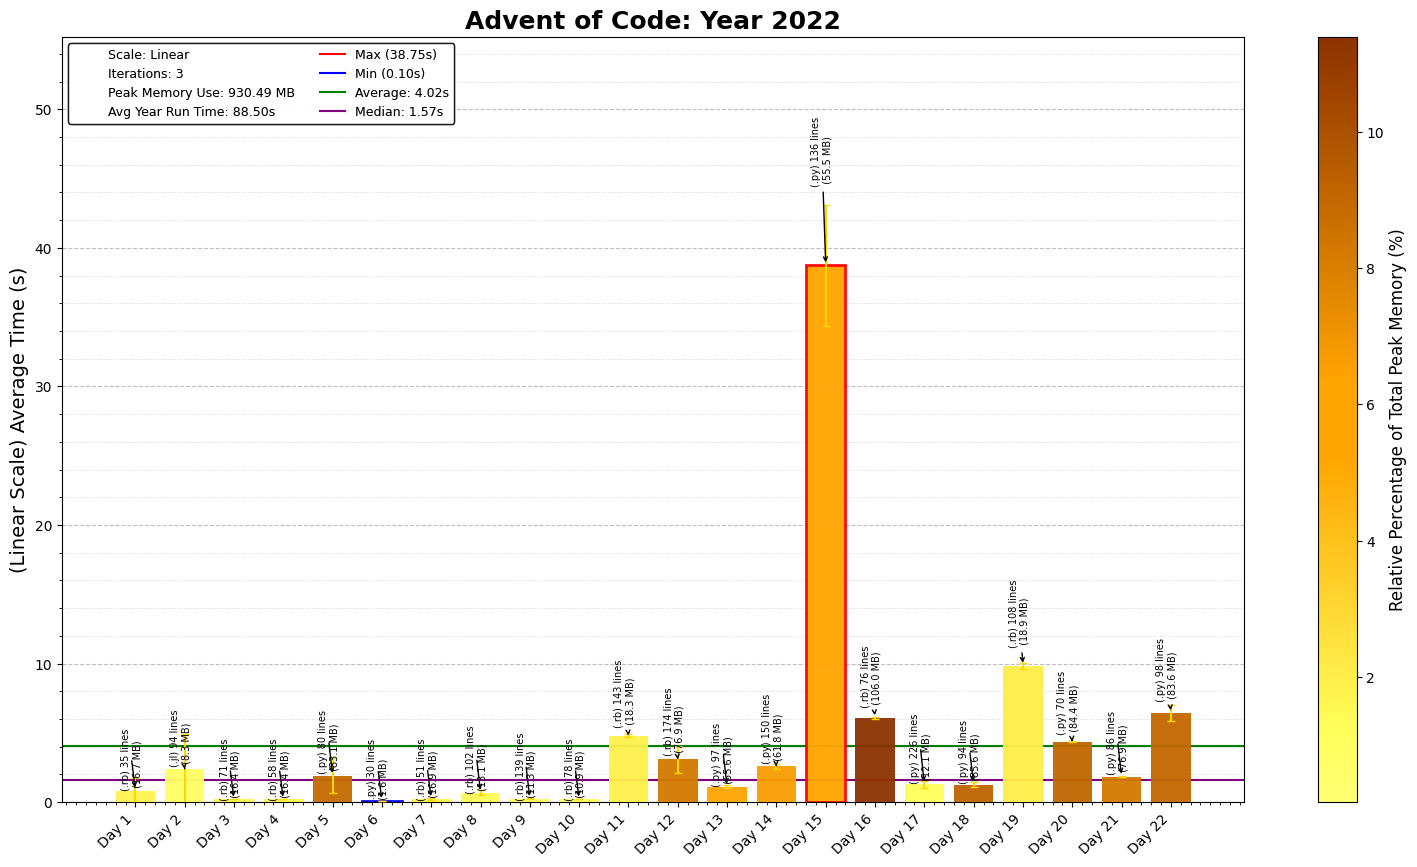
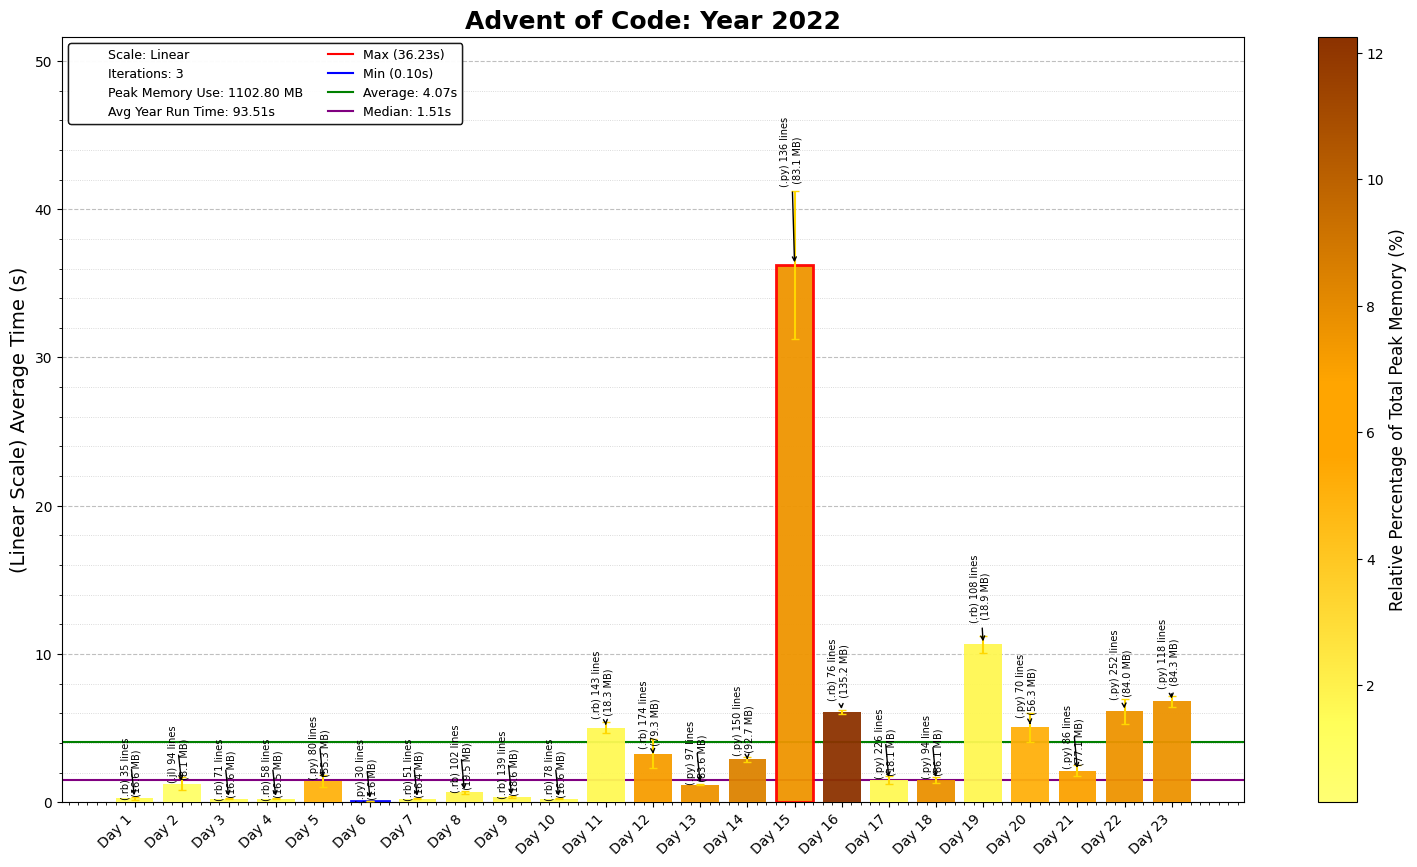
2022 Day 22 P2 & Day 23

diff --git a/2022/22/2022Day22_P2.py b/2022/22/2022Day22_P2.py
@@ -1,0 +1,159 @@
+"""Advent of Code - Day 22, Year 2022
+Solution Started: Dec 11, 2024
+Puzzle Link: https://adventofcode.com/2022/day/22
+Solution by: abbasmoosajee07
+Brief: [Moving in a 3D Cube]
+"""
+
+#!/usr/bin/env python3
+
+import os, re, copy
+import numpy as np
+import pandas as pd
+import matplotlib.pyplot as plt
+
+# Load the input data from the specified file path
+D22_file = "Day22_input.txt"
+D22_file_path = os.path.join(os.path.dirname(os.path.abspath(__file__)), D22_file)
+
+# Read and sort input data into a grid
+with open(D22_file_path) as file:
+    input_data = file.read().split('\n\n')
+    movements = re.findall(r'\d+|[RL]', input_data[1])
+#!/usr/bin/env python3
+
+import os
+import re
+import numpy as np
+
+# Load the input data from the specified file path
+D22_file = "Day22_input.txt"
+D22_file_path = os.path.join(os.path.dirname(os.path.abspath(__file__)), D22_file)
+
+# Read and sort input data into a grid and movements
+with open(D22_file_path) as file:
+    input_data = file.read().split('\n\n')
+    grid_data = input_data[0].split('\n')
+    movements = re.findall(r'\d+|[RL]', input_data[1])
+
+def build_grid(grid_lines):
+    """Build a grid from the input string, padding rows to have equal length."""
+    max_len = max(len(line) for line in grid_lines)
+    padded_lines = [line.ljust(max_len) for line in grid_lines]
+    return np.array([list(line) for line in padded_lines], dtype=str)
+
+def calculate_final_password(position):
+    """Calculate the final password based on the position."""
+    row, col, direction = position
+    direction_value = {0: 3, 1: 0, 2: 1, 3: 2}
+    return (1000 * (row + 1)) + (4 * (col + 1)) + direction_value[direction]
+
+def region_to_global(r, c, region):
+    """Convert local coordinates within a region to global grid coordinates."""
+    rr, cc = REGION[region - 1]
+    return (rr * CUBE_SIZE + r, cc * CUBE_SIZE + c)
+
+def get_region(r, c):
+    """Get the region and local coordinates for a global grid position."""
+    for i, (rr, cc) in enumerate(REGION):
+        if rr * CUBE_SIZE <= r < (rr + 1) * CUBE_SIZE and cc * CUBE_SIZE <= c < (cc + 1) * CUBE_SIZE:
+            return i + 1, r - rr * CUBE_SIZE, c - cc * CUBE_SIZE
+    raise ValueError(f"Position ({r}, {c}) does not match any region")
+
+def new_coords(r, c, d, nd):
+    """Compute new coordinates on the cube after transitioning across a face boundary."""
+    if d == 0:  # Moving up
+        assert r == 0
+        x = c
+    elif d == 1:  # Moving right
+        assert c == CUBE_SIZE - 1
+        x = r
+    elif d == 2:  # Moving down
+        assert r == CUBE_SIZE - 1
+        x = CUBE_SIZE - 1 - c
+    elif d == 3:  # Moving left
+        assert c == 0
+        x = CUBE_SIZE - 1 - r
+
+    if nd == 0:
+        return CUBE_SIZE - 1, x
+    elif nd == 1:
+        return x, 0
+    elif nd == 2:
+        return 0, CUBE_SIZE - 1 - x
+    elif nd == 3:
+        return CUBE_SIZE - 1 - x, CUBE_SIZE - 1
+
+def get_dest(r, c, d):
+    """Get the destination position and new direction after moving off the current cube face."""
+    region, rr, rc = get_region(r, c)
+
+    # Mapping of exits and entries between faces based on direction
+    new_region, new_dir = {
+        (4, 0): (3, 0), (4, 1): (2, 3), (4, 2): (6, 3), (4, 3): (5, 3),
+        (1, 0): (6, 1), (1, 1): (2, 1), (1, 2): (3, 2), (1, 3): (5, 1),
+        (3, 0): (1, 0), (3, 1): (2, 0), (3, 2): (4, 2), (3, 3): (5, 2),
+        (6, 0): (5, 0), (6, 1): (4, 0), (6, 2): (2, 2), (6, 3): (1, 2),
+        (2, 0): (6, 0), (2, 1): (4, 3), (2, 2): (3, 3), (2, 3): (1, 3),
+        (5, 0): (3, 1), (5, 1): (4, 1), (5, 2): (6, 2), (5, 3): (1, 1)
+    }[(region, d)]
+
+    # Calculate new coordinates on the new face and map to global grid
+    nr, nc = new_coords(rr, rc, d, new_dir)
+    nr, nc = region_to_global(nr, nc, new_region)
+    return nr, nc, new_dir
+
+def move_on_3d_cube():
+    """Simulate the movement of the robot and calculate the final password."""
+    # Initial robot position (top-left corner) and direction (right)
+    r, c, d = 0, 0, 1
+    while grid[r][c] != '.':
+        c += 1  # Find the first valid position in the top row
+
+    i = 0
+    while i < len(movements):
+        # Parse movement instructions
+        n = 0
+        while i < len(movements) and movements[i].isdigit():
+            n = n * 10 + int(movements[i])
+            i += 1
+
+        # Process movement
+        for _ in range(n):
+            assert grid[r][c] == '.', f"Unexpected position: ({r}, {c})"
+            rr = (r + DIRECTIONS[d][0]) % len(grid)
+            cc = (c + DIRECTIONS[d][1]) % len(grid[0])
+            if grid[rr][cc] == ' ':
+                # Transition to a new face if moving off the current face
+                nr, nc, nd = get_dest(r, c, d)
+                if grid[nr][nc] == '#':
+                    break  # Stop if hitting a wall
+                r, c, d = nr, nc, nd
+            elif grid[rr][cc] == '#':
+                break  # Stop if hitting a wall
+            else:
+                r, c = rr, cc
+
+        if i == len(movements):
+            break
+
+        # Handle turns
+        turn = movements[i]
+        if turn == 'L':
+            d = (d + 3) % 4  # Left turn (counterclockwise)
+        elif turn == 'R':
+            d = (d + 1) % 4  # Right turn (clockwise)
+        i += 1
+
+    return calculate_final_password((r,c,d))
+
+# Initial grid and movement setup
+grid = build_grid(grid_data)
+
+# Constants
+DIRECTIONS = [(-1, 0), (0, 1), (1, 0), (0, -1)]  # Up, Right, Down, Left
+CUBE_SIZE = len(grid[0]) // 3  # Assuming the grid is folded into a 3x3 cube
+REGION = [(0, 1), (0, 2), (1, 1), (2, 1), (2, 0), (3, 0)]  # Cube face regions
+
+# Output the result for part 2
+print("Part 2:", move_on_3d_cube())

diff --git a/2022/23/2022Day23.py b/2022/23/2022Day23.py
@@ -1,0 +1,117 @@
+"""Advent of Code - Day 23, Year 2022
+Solution Started: Dec 12, 2024
+Puzzle Link: https://adventofcode.com/2022/day/23
+Solution by: abbasmoosajee07
+Brief: [Code/Problem Description]
+"""
+
+#!/usr/bin/env python3
+
+import os, re, copy 
+import numpy as np
+import pandas as pd
+import matplotlib.pyplot as plt
+from collections import defaultdict, deque
+
+# Load the input data from the specified file path
+D23_file = "Day23_input.txt"
+D23_file_path = os.path.join(os.path.dirname(os.path.abspath(__file__)), D23_file)
+
+# Read and sort input data into a grid
+with open(D23_file_path) as file:
+    input_data = file.read().strip().split('\n')
+
+def starting_elf_position(init_map):
+    init_array = [list(row) for row in init_map]
+    elf_index = set()
+    for row_no, row in enumerate(init_array):
+        for col_no, char in enumerate(row):
+            if char == '#':
+                elf_index.add((row_no, col_no))
+    return elf_index
+
+def map_elves(elf_index):
+    # Determine the grid size based on the maximum row and column values
+    max_row = max(r for r, c in elf_index)
+    max_col = max(c for r, c in elf_index)
+    min_row = min(r for r, c in elf_index)
+    min_col = min(c for r, c in elf_index)
+
+    # Initialize an empty grid with '.' for unoccupied positions
+    grid = [['.' for _ in range(min_col, max_col+1)] for _ in range(min_row, max_row +1)]
+
+    # Mark the positions in the grid with '#'
+    for r, c in elf_index:
+        grid[r-min_row][c-min_col] = '#'
+
+    # Display the grid
+    # for row in grid:
+    #     print(''.join(row))
+    return grid
+
+def move_elves(elf_index):
+    # Define movement directions and offsets
+    DIRECTION_OFFSETS = {
+        'N': (-1, 0), 'S': (1, 0), 'W': (0, -1), 'E': (0, 1)
+    }
+    DIAGONAL_OFFSETS = {
+        'N': [(-1, -1), (-1, 1)], 'S': [(1, -1), (1, 1)],
+        'W': [(-1, -1), (1, -1)], 'E': [(-1, 1), (1, 1)]
+    }
+    DIRECTIONS = ['N', 'S', 'W', 'E']
+
+    for t in range(10000):
+        any_moved = False
+        # Dictionary to track desired positions and the elves that want to move there
+        proposed_moves = defaultdict(list)
+
+        # Determine proposed moves for each elf
+        for (r, c) in elf_index:
+            # Check if the elf has any neighbors
+            has_neighbors = any(
+                (r + dr, c + dc) in elf_index
+                for dr in [-1, 0, 1] for dc in [-1, 0, 1] if (dr, dc) != (0, 0)
+            )
+
+            if not has_neighbors:
+                continue  # Skip if no neighbors
+
+            # Propose a move based on the current directions
+            for dir_ in DIRECTIONS:
+                move_offset = DIRECTION_OFFSETS[dir_]
+                diagonal_offsets = DIAGONAL_OFFSETS[dir_]
+                new_pos = (r + move_offset[0], c + move_offset[1])
+
+                if (
+                    new_pos not in elf_index and
+                    all((r + dr, c + dc) not in elf_index for dr, dc in diagonal_offsets)
+                ):
+                    proposed_moves[new_pos].append((r, c))
+                    break  # Stop after proposing one move
+
+        # Rotate directions for the next round
+        DIRECTIONS = DIRECTIONS[1:] + DIRECTIONS[:1]
+
+        # Execute the moves
+        for target, movers in proposed_moves.items():
+            if len(movers) == 1:  # Move only if there's no conflict
+                any_moved = True
+                elf_index.discard(movers[0])
+                elf_index.add(target)
+
+        # Stop if no elves moved
+        if not any_moved:
+            ans_p2 = t + 1  # Part 2 answer is the round when movement stops
+            break
+
+        # Compute part 1 answer after 10 rounds
+        if t == 9:
+            grid_p1 = map_elves(elf_index)  # Assume map_elves converts the set into a grid
+            ans_p1 = sum(row.count('.') for row in grid_p1)
+
+    return ans_p1, ans_p2
+
+elf_init = starting_elf_position(input_data)
+ans_p1, ans_p2 = move_elves(elf_init)
+print("Part 1:", ans_p1)
+print("Part 2:", ans_p2)

diff --git a/2022/22/2022Day22_P1.py b/2022/22/2022Day22_P1.py
@@ -28,15 +28,10 @@ def build_grid(multiline_str):
     padded_lines = [list(line.ljust(max_len)) for line in lines]
     return np.array(padded_lines, dtype=str)
 
-def find_row_boundaries(row):
-    """Find the first and last non-space indices in a row."""
+def find_boundaries(row):
+    """Find the first and last non-space indices in a row/col."""
     indices = [i for i, char in enumerate(row) if char != ' ']
     return (indices[0], indices[-1]) if indices else (0, len(row) - 1)
-
-def find_col_boundaries(grid, col):
-    """Find the first and last non-space indices in a column."""
-    indices = [i for i, char in enumerate(grid[:, col]) if char != ' ']
-    return (indices[0], indices[-1]) if indices else (0, len(grid) - 1)
 
 def move_on_grid(grid, movement, start):
     """Execute a movement on the grid."""
@@ -55,14 +50,14 @@ def move_on_grid(grid, movement, start):
         next_row, next_col = row + dr, col + dc
 
         # Handle wrapping in rows
-        row_start, row_end = find_row_boundaries(grid[row])
+        row_start, row_end = find_boundaries(grid[row])
         if next_col < row_start:
             next_col = row_end
         elif next_col > row_end:
             next_col = row_start
 
         # Handle wrapping in columns
-        col_start, col_end = find_col_boundaries(grid, col)
+        col_start, col_end = find_boundaries(grid[:, col])
         if next_row < col_start:
             next_row = col_end
         elif next_row > col_end:
